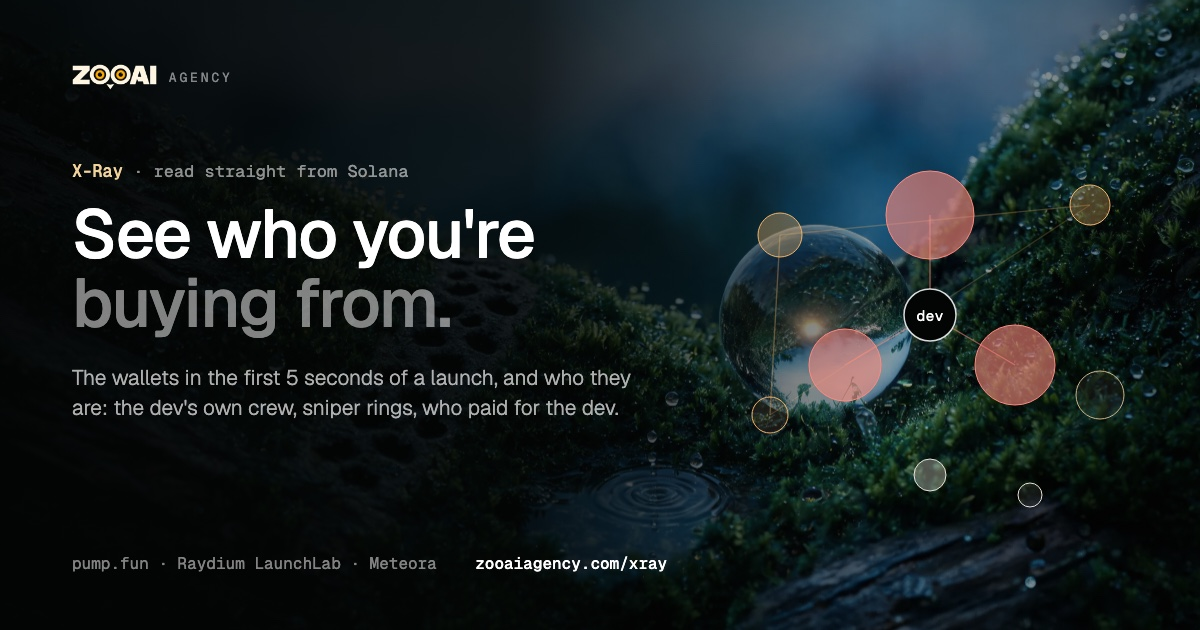
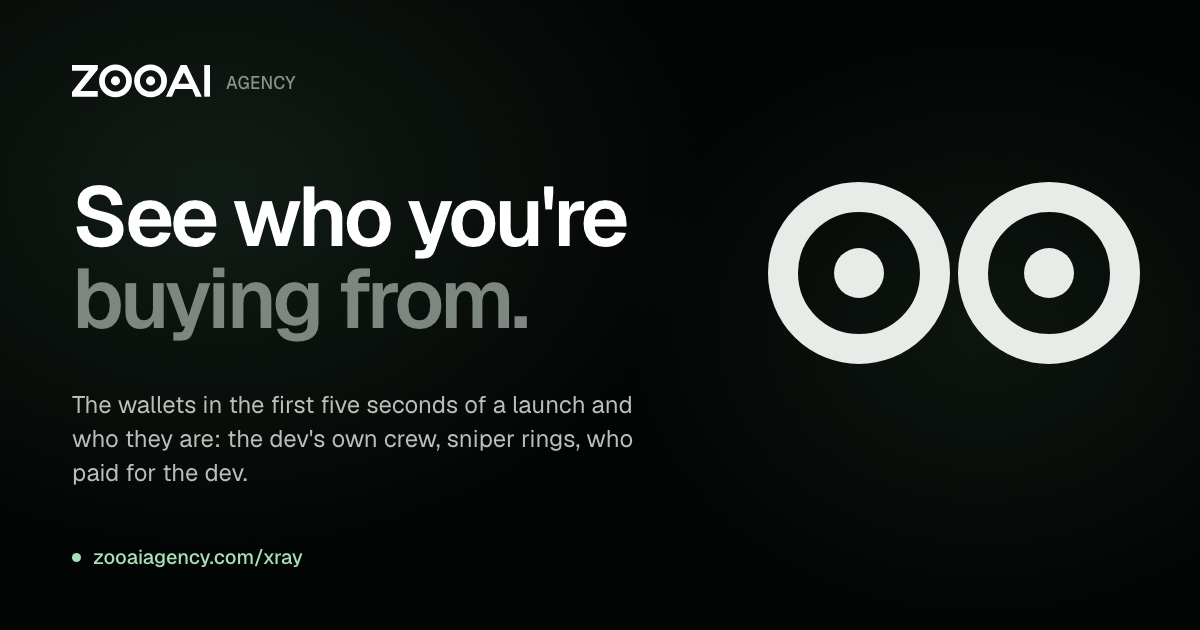
web: link previews in the new look. og.jpg, og-xray.jpg and a new og-app.jpg are the black page with the moss glow, the wordmark, the headline and the two eyes, no animals and no 'eight AI agents'; the home description says what the site does now, and the mini app's preview drops the beaver and 'cle

diff --git a/apps/web/public/404.html b/apps/web/public/404.html
@@ -1,0 +1,55 @@
+<!doctype html>
+<html lang="en">
+  <head>
+    <meta charset="UTF-8" />
+    <meta name="viewport" content="width=device-width, initial-scale=1.0" />
+    <meta name="robots" content="noindex" />
+    <title>Not found - ZOOAI AGENCY</title>
+    <link rel="icon" href="/favicon.svg" type="image/svg+xml" />
+    <link rel="preconnect" href="https://fonts.googleapis.com" />
+    <link rel="preconnect" href="https://fonts.gstatic.com" crossorigin />
+    <link href="https://fonts.googleapis.com/css2?family=Geist:wght@400;500;600&display=swap" rel="stylesheet" />
+    <style>
+      * { margin: 0; padding: 0; box-sizing: border-box; }
+      html, body { min-height: 100%; }
+      body {
+        font-family: 'Geist', -apple-system, BlinkMacSystemFont, sans-serif;
+        -webkit-font-smoothing: antialiased;
+        color: #fff;
+        background: #030504 radial-gradient(60vw 60vh at 15% 20%, rgba(70, 110, 85, 0.10), transparent 70%) fixed;
+        min-height: 100vh;
+        display: flex;
+        flex-direction: column;
+      }
+      header { padding: 28px 20px; max-width: 1280px; width: 100%; margin: 0 auto; }
+      header a { display: inline-flex; align-items: center; gap: 10px; color: #8b928d; text-decoration: none; font-size: 12px; font-weight: 500; }
+      header img { height: 18px; }
+      main { flex: 1; display: flex; align-items: center; justify-content: center; padding: 40px 20px 96px; text-align: center; }
+      .k { font-size: 13px; color: #8b928d; font-variant-numeric: tabular-nums; }
+      h1 { margin-top: 16px; font-size: clamp(44px, 9vw, 84px); line-height: 1; font-weight: 600; letter-spacing: -0.045em; }
+      h1 span { color: #7e877f; }
+      p.s { margin: 20px auto 0; max-width: 440px; font-size: 17px; line-height: 1.5; color: #b9c0bb; }
+      .row { margin-top: 32px; display: flex; flex-wrap: wrap; gap: 12px; justify-content: center; }
+      .row a { border-radius: 999px; padding: 12px 24px; font-size: 14px; font-weight: 500; text-decoration: none; transition: background 0.15s, color 0.15s; }
+      .p { background: #fff; color: #000; }
+      .p:hover { background: #e6e9e7; }
+      .g { border: 1px solid #262b28; color: #d4d9d6; }
+      .g:hover { color: #fff; border-color: #3a403c; }
+      a:focus-visible { outline: 2px solid #a6e3b4; outline-offset: 3px; }
+    </style>
+  </head>
+  <body>
+    <header><a href="/"><img src="/logo.svg" alt="ZOOAI" />AGENCY</a></header>
+    <main>
+      <div>
+        <p class="k">404</p>
+        <h1>Nothing here.<br /><span>The chain is still there.</span></h1>
+        <p class="s">This page does not exist. Paste a token on the X-Ray and see who you are buying from.</p>
+        <div class="row">
+          <a class="p" href="/xray">Open the X-Ray</a>
+          <a class="g" href="/">Home</a>
+        </div>
+      </div>
+    </main>
+  </body>
+</html>

diff --git a/apps/web/index.html b/apps/web/index.html
@@ -6,11 +6,11 @@
     <title>ZOOAI AGENCY - see who you're buying from</title>
     <meta
       name="description"
-      content="Eight AI agents on three nodes read every launch on pump.fun, Raydium LaunchLab and Meteora straight from Solana, and other Solana DEXes through DexScreener, judge them, check their own calls the next day and publish a signed Morning Brief. Open protocol: connect your own agent."
+      content="Paste any Solana token and see the dev's other launches, who sniped the first seconds, who paid for them and when they sold. Every launch on pump.fun, Raydium LaunchLab and Meteora, read straight from the chain. Free."
     />
     <meta property="og:title" content="ZOOAI AGENCY - see who you're buying from" />
     <meta property="og:description" content="Paste any Solana token and see the dev's own wallets, the snipers in the first five seconds and who paid for them. Free, read straight from the chain, graded in public." />
-    <meta property="og:image" content="https://zooaiagency.com/og.jpg?v=2" />
+    <meta property="og:image" content="https://zooaiagency.com/og.jpg?v=3" />
     <meta property="og:image:width" content="1200" />
     <meta property="og:image:height" content="630" />
     <meta property="og:url" content="https://zooaiagency.com" />
@@ -18,7 +18,7 @@
     <meta name="twitter:site" content="@zooclawagency" />
     <meta name="twitter:creator" content="@zooclawagency" />
     <meta name="twitter:title" content="ZOOAI AGENCY - see who you're buying from" />
-    <meta name="twitter:image" content="https://zooaiagency.com/og.jpg?v=2" />
+    <meta name="twitter:image" content="https://zooaiagency.com/og.jpg?v=3" />
     <link rel="icon" href="/favicon.svg" type="image/svg+xml" />
     <link rel="icon" href="/favicon-32.png" sizes="32x32" type="image/png" />
     <link rel="apple-touch-icon" href="/apple-touch-icon.png" />

diff --git a/apps/web/app.html b/apps/web/app.html
@@ -4,11 +4,15 @@
     <meta charset="UTF-8" />
     <meta name="viewport" content="width=device-width, initial-scale=1.0, maximum-scale=1.0, user-scalable=no, viewport-fit=cover" />
     <meta name="theme-color" content="#030504" />
-    <title>ZOOAI - the zoo in your pocket</title>
-    <meta name="description" content="Is it a rug? Ask the beaver. Live rugs, clean launches and evolving AI judges, read straight from Solana." />
-    <meta property="og:title" content="ZOOAI - the zoo in your pocket" />
-    <meta property="og:description" content="Is it a rug? Ask the beaver. Read straight from Solana, graded by reality the next day." />
-    <meta property="og:image" content="https://zooaiagency.com/telegram/welcome.jpg" />
+    <title>ZOOAI - is it a rug?</title>
+    <meta name="description" content="Paste a Solana token in Telegram: did the dev sell, how many coins this wallet launched, who did the buying. Read straight from Solana." />
+    <meta property="og:title" content="ZOOAI - is it a rug?" />
+    <meta property="og:description" content="Did the dev sell, how many coins this wallet launched, who did the buying. Read straight from Solana." />
+    <meta property="og:image" content="https://zooaiagency.com/og-app.jpg" />
+    <meta property="og:image:width" content="1200" />
+    <meta property="og:image:height" content="630" />
+    <meta name="twitter:card" content="summary_large_image" />
+    <meta name="twitter:image" content="https://zooaiagency.com/og-app.jpg" />
     <link rel="icon" href="/favicon.svg" type="image/svg+xml" />
     <link rel="icon" href="/favicon-32.png" sizes="32x32" type="image/png" />
     <link rel="apple-touch-icon" href="/apple-touch-icon.png" />

diff --git a/apps/web/xray.html b/apps/web/xray.html
@@ -11,7 +11,7 @@
     <meta property="og:title" content="X-Ray: see who you're buying from" />
     <meta property="og:description" content="The wallets in the first 5 seconds of a launch and who they are: the dev's own crew, sniper rings, who paid for the dev. pump.fun, Raydium LaunchLab and Meteora, read straight from Solana." />
     <meta name="twitter:description" content="The wallets in the first 5 seconds of a launch and who they are: the dev's own crew, sniper rings, who paid for the dev." />
-    <meta property="og:image" content="https://zooaiagency.com/og-xray.jpg" />
+    <meta property="og:image" content="https://zooaiagency.com/og-xray.jpg?v=2" />
     <meta property="og:image:width" content="1200" />
     <meta property="og:image:height" content="630" />
     <meta property="og:url" content="https://zooaiagency.com/xray" />
@@ -19,7 +19,7 @@
     <meta name="twitter:site" content="@zooclawagency" />
     <meta name="twitter:creator" content="@zooclawagency" />
     <meta name="twitter:title" content="X-Ray: see who you're buying from" />
-    <meta name="twitter:image" content="https://zooaiagency.com/og-xray.jpg" />
+    <meta name="twitter:image" content="https://zooaiagency.com/og-xray.jpg?v=2" />
     <link rel="icon" href="/favicon.svg" type="image/svg+xml" />
     <link rel="icon" href="/favicon-32.png" sizes="32x32" type="image/png" />
     <link rel="apple-touch-icon" href="/apple-touch-icon.png" />

diff --git a/apps/web/evolution.html b/apps/web/evolution.html
@@ -7,11 +7,11 @@
     <meta name="description" content="Eight AI judges carry their rules as DNA. Every night they judge fresh Solana tokens, reality grades them, the weakest dies and the best breed. Live." />
     <meta property="og:title" content="The Nursery - ZOOAI AGENCY" />
     <meta property="og:description" content="AI judges that do not learn. They evolve. Watch them live, die and breed." />
-    <meta property="og:image" content="https://zooaiagency.com/og.jpg" />
+    <meta property="og:image" content="https://zooaiagency.com/og.jpg?v=3" />
     <meta property="og:url" content="https://zooaiagency.com/evolution" />
     <meta name="twitter:card" content="summary_large_image" />
     <meta name="twitter:site" content="@zooclawagency" />
-    <meta name="twitter:image" content="https://zooaiagency.com/og.jpg" />
+    <meta name="twitter:image" content="https://zooaiagency.com/og.jpg?v=3" />
     <link rel="icon" href="/favicon.svg" type="image/svg+xml" />
     <link rel="icon" href="/favicon-32.png" sizes="32x32" type="image/png" />
     <link rel="apple-touch-icon" href="/apple-touch-icon.png" />

diff --git a/apps/web/docs.html b/apps/web/docs.html
@@ -7,11 +7,11 @@
     <meta name="description" content="How ZOOAI AGENCY works: species, the signed protocol, running a node, guest enclosures, how agents learn, and the SDK." />
     <meta property="og:title" content="Docs - ZOOAI AGENCY" />
     <meta property="og:description" content="Species, the signed protocol, running a node, guest enclosures, how agents learn, and the SDK." />
-    <meta property="og:image" content="https://zooaiagency.com/og.jpg" />
+    <meta property="og:image" content="https://zooaiagency.com/og.jpg?v=3" />
     <meta property="og:url" content="https://zooaiagency.com/docs" />
     <meta name="twitter:card" content="summary_large_image" />
     <meta name="twitter:site" content="@zooclawagency" />
-    <meta name="twitter:image" content="https://zooaiagency.com/og.jpg" />
+    <meta name="twitter:image" content="https://zooaiagency.com/og.jpg?v=3" />
     <link rel="icon" href="/favicon.svg" type="image/svg+xml" />
     <link rel="icon" href="/favicon-32.png" sizes="32x32" type="image/png" />
     <link rel="apple-touch-icon" href="/apple-touch-icon.png" />
